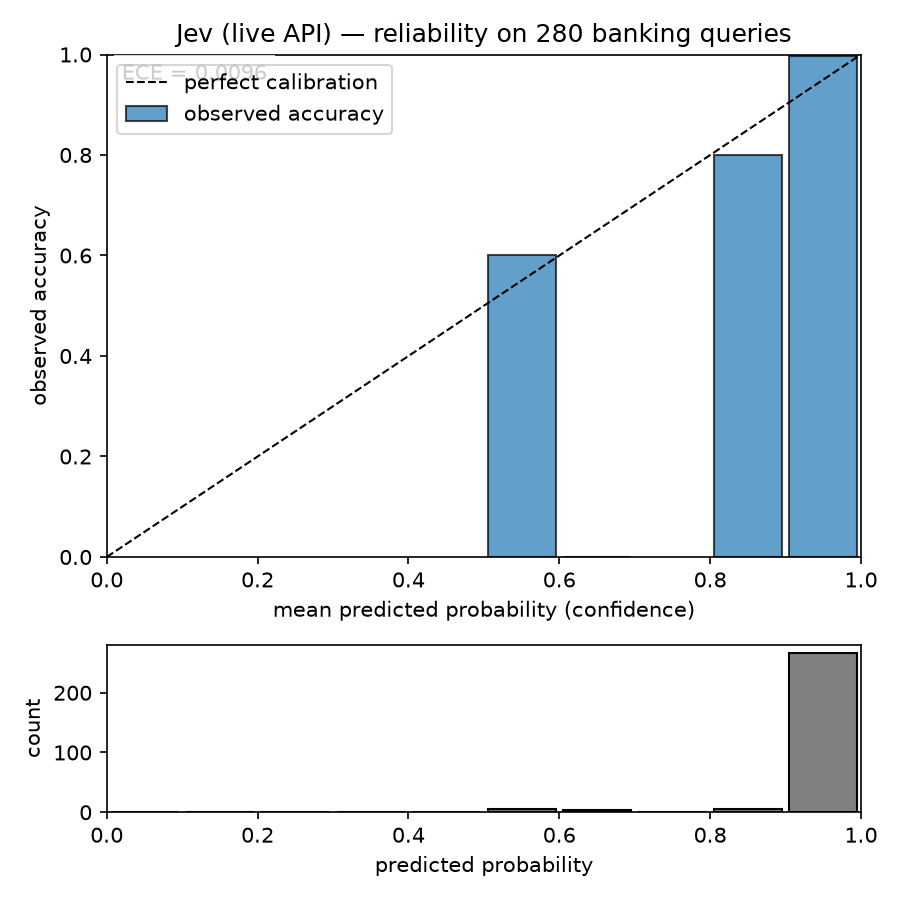
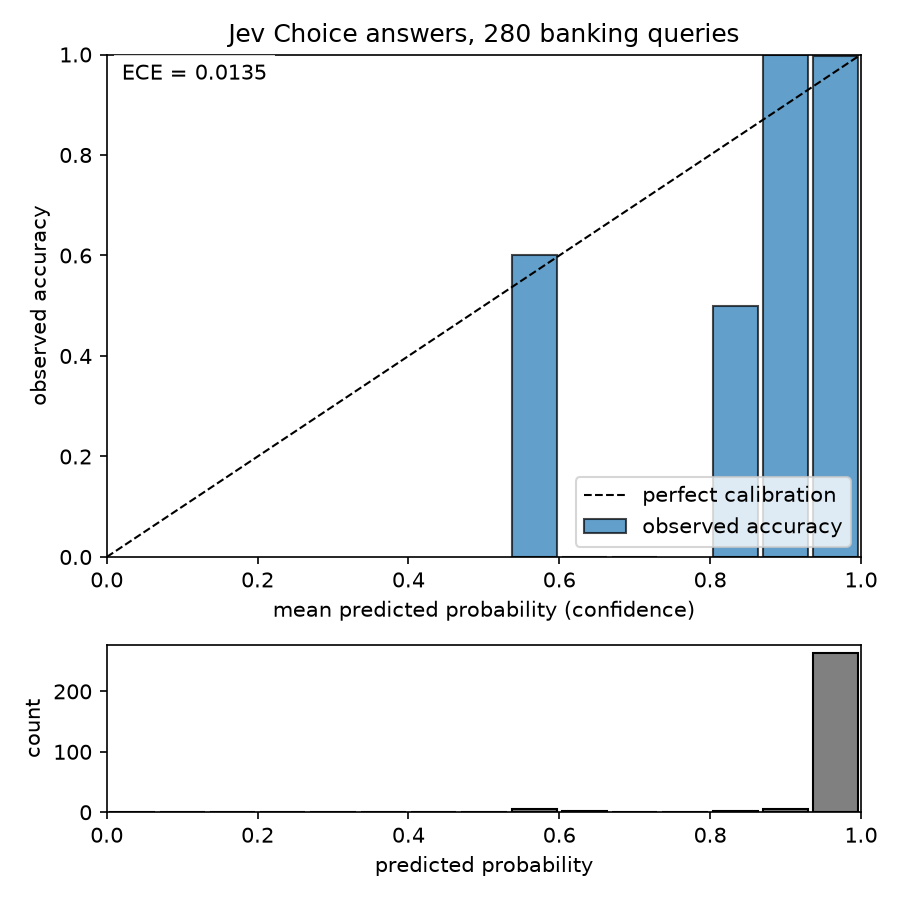
Add matched-bin ECE analysis and Jev-protocol framing test
ece_matched_bins.py recomputes Jev ECEs with the same 15 bins as the open
models, with a paired bootstrap; exp03b reruns the open framing test with
exp04's protocol. Redraws the Jev reliability figure at 15 bins.

diff --git a/code/ece_matched_bins.py b/code/ece_matched_bins.py
@@ -1,0 +1,100 @@
+"""ECE for the real Jev and the open models on the same 15-bin convention.
+
+calibration.py defaults to 15 equal-width bins, which is what exp01 used
+for the open models. The live Jev scripts (exp04-06) used 10 bins. This
+script recomputes every Jev ECE from the raw responses with 15 bins, and
+runs a paired bootstrap of (open - Jev) Choice ECE on the same 280 queries
+of the 7-intent slice.
+
+Usage: python code/ece_matched_bins.py
+Writes data/ece_matched_bins.json and figures/reliability_jev_live.png.
+"""
+
+import json
+import os
+import sys
+
+import numpy as np
+import pandas as pd
+from sklearn.feature_extraction.text import TfidfVectorizer
+
+sys.path.insert(0, os.path.dirname(os.path.abspath(__file__)))
+from calibration import TemperatureScaledLR, plot_reliability_diagram  # noqa: E402
+from calibration import expected_calibration_error as ece  # noqa: E402
+
+BASE = os.path.dirname(os.path.dirname(os.path.abspath(__file__)))
+N_BINS, N_BOOT, SEED = 15, 10_000, 7
+
+
+def load(name):
+    with open(os.path.join(BASE, "data", name)) as f:
+        return [json.loads(line) for line in f]
+
+
+def ci(v):
+    return [float(x) for x in np.percentile(v, [2.5, 97.5])]
+
+
+def main():
+    tr = pd.read_csv(os.path.join(BASE, "data", "banking77_train.csv"))
+    te = pd.read_csv(os.path.join(BASE, "data", "banking77_test.csv"))
+    keep = list(tr["category"].value_counts().nlargest(7).index)
+    te7 = te[te["category"].isin(keep)].reset_index(drop=True)
+
+    # Jev, 7-intent slice: Choice top label + all 7 Noul answers per query
+    rows = sorted((r for r in load("exp04_raw.jsonl") if r["part"] == "A"), key=lambda r: r["i"])
+    jy, jp, ny, npr = [], [], [], []
+    for r in rows:
+        ans, true = r["payload"]["answers"], te7.loc[r["i"], "category"]
+        c = ans["intent"]
+        jy.append(int(c["choice"] == true))
+        jp.append(max(c["probabilities"].values()))
+        for it in keep:
+            ny.append(int(it == true))
+            npr.append(ans[f"noul_{it}"]["noul"])
+    jy, jp, ny, npr = map(np.array, (jy, jp, ny, npr))
+
+    # Open temperature-scaled model on the same 280 queries
+    tr7 = tr[tr["category"].isin(keep)]
+    vec = TfidfVectorizer(max_features=20000, ngram_range=(1, 2))
+    m = TemperatureScaledLR().fit(vec.fit_transform(tr7["text"]), tr7["category"].to_numpy())
+    P = m.predict_proba(vec.transform(te7["text"]))
+    oy = (m.classes_[P.argmax(axis=1)] == te7["category"].to_numpy()).astype(int)
+    op = P.max(axis=1)
+
+    rng = np.random.default_rng(SEED)
+    n, k = len(jy), len(keep)
+    bj, bo, bd, bn = [], [], [], []
+    for _ in range(N_BOOT):
+        ix = rng.integers(0, n, n)
+        a, b = ece(jy[ix], jp[ix], N_BINS), ece(oy[ix], op[ix], N_BINS)
+        bj.append(a); bo.append(b); bd.append(b - a)
+        pix = (ix[:, None] * k + np.arange(k)).ravel()  # resample queries, keep their 7 pairs
+        bn.append(ece(ny[pix], npr[pix], N_BINS))
+
+    out = {"n_bins": N_BINS, "bootstrap": f"percentile, {N_BOOT} resamples, seed {SEED}",
+           "jev_choice_7": {"acc": float(jy.mean()), "ece": ece(jy, jp, N_BINS), "ci95": ci(bj),
+                            "share_above_0.99": float((jp > 0.99).mean())},
+           "open_temp_7": {"acc": float(oy.mean()), "ece": ece(oy, op, N_BINS), "ci95": ci(bo)},
+           "paired_diff_open_minus_jev": {"mean": float(np.mean(bd)), "ci95": ci(bd)},
+           "jev_noul_pooled": {"ece": ece(ny, npr, N_BINS), "ci95_cluster_by_query": ci(bn),
+                               "positives_mean_p": float(npr[ny == 1].mean()),
+                               "positives_share_ge_0.9": float((npr[ny == 1] >= 0.9).mean())}}
+    for tag, f in (("jev_77_terse", "exp05_raw.jsonl"), ("jev_77_threeshot", "exp06_raw.jsonl")):
+        y, p = [], []
+        for r in load(f):
+            c = r["payload"]["answers"]["intent"]
+            y.append(int(c["choice"] == te.loc[r["i"], "category"]))
+            p.append(max(c["probabilities"].values()))
+        out[tag] = {"acc": float(np.mean(y)), "ece": ece(np.array(y), np.array(p), N_BINS)}
+
+    plot_reliability_diagram(jy, jp, n_bins=N_BINS,
+                             title="Jev Choice answers, 280 banking queries",
+                             path=os.path.join(BASE, "figures", "reliability_jev_live.png"))
+    print(json.dumps(out, indent=1))
+    with open(os.path.join(BASE, "data", "ece_matched_bins.json"), "w") as f:
+        json.dump(out, f, indent=2)
+
+
+if __name__ == "__main__":
+    main()

diff --git a/code/exp03b_framing_jev_protocol.py b/code/exp03b_framing_jev_protocol.py
@@ -1,0 +1,73 @@
+"""Exp 03b: the framing test on open models, using exp04's Jev protocol.
+
+exp03 part 2 compared framings for one target intent over all 77 classes,
+where both framings almost never act, so its 0.03% contradiction rate is
+not comparable to the live Jev number. This rerun matches exp04 part A:
+the 280 queries of the 7-intent slice, the Choice framing read as the
+multiclass top probability, the Noul framing read as a one-vs-rest binary
+classifier's P(true) for the *predicted* intent, contradiction = the two
+disagree on act (>= 0.90). Also reports the rate at matched action rates.
+
+Usage: python code/exp03b_framing_jev_protocol.py
+Writes data/exp03b_results.json.
+"""
+
+import json
+import os
+import sys
+
+import numpy as np
+import pandas as pd
+from sklearn.feature_extraction.text import TfidfVectorizer
+from sklearn.linear_model import LogisticRegression
+
+sys.path.insert(0, os.path.dirname(os.path.abspath(__file__)))
+from calibration import TemperatureScaledLR  # noqa: E402
+
+BASE = os.path.dirname(os.path.dirname(os.path.abspath(__file__)))
+ACT_T = 0.90
+
+
+def framing(p_choice, p_noul):
+    act_c = p_choice >= ACT_T
+    act_n = p_noul >= ACT_T
+    # matched action rates: Noul threshold that acts on as many queries as Choice
+    t_match = float(np.quantile(p_noul, 1 - act_c.mean()))
+    act_nm = p_noul >= t_match
+    return {"choice_act_rate": float(act_c.mean()),
+            "noul_act_rate": float(act_n.mean()),
+            "contradiction_rate": float((act_c != act_n).mean()),
+            "contradictions": int((act_c != act_n).sum()),
+            "noul_threshold_matched": t_match,
+            "contradiction_rate_matched": float((act_c != act_nm).mean()),
+            "contradictions_matched": int((act_c != act_nm).sum())}
+
+
+def main():
+    tr = pd.read_csv(os.path.join(BASE, "data", "banking77_train.csv"))
+    te = pd.read_csv(os.path.join(BASE, "data", "banking77_test.csv"))
+    keep = tr["category"].value_counts().nlargest(7).index
+    tr7, te7 = tr[tr["category"].isin(keep)], te[te["category"].isin(keep)]
+    vec = TfidfVectorizer(max_features=20000, ngram_range=(1, 2))
+    Xtr, Xte = vec.fit_transform(tr7["text"]), vec.transform(te7["text"])
+    ytr = tr7["category"].to_numpy()
+
+    noul = {c: LogisticRegression(max_iter=1000, C=4.0).fit(Xtr, (ytr == c).astype(int))
+            for c in sorted(keep)}
+    out = {"n": int(Xte.shape[0])}
+    for name, clf in [("logreg", LogisticRegression(max_iter=1000, C=4.0)),
+                      ("logreg_temp", TemperatureScaledLR())]:
+        clf.fit(Xtr, ytr)
+        P = clf.predict_proba(Xte)
+        pred = clf.classes_[P.argmax(axis=1)]
+        p_choice = P.max(axis=1)
+        p_noul = np.array([noul[c].predict_proba(Xte[i])[0, 1] for i, c in enumerate(pred)])
+        out[name] = framing(p_choice, p_noul)
+        print(name, json.dumps(out[name]))
+
+    with open(os.path.join(BASE, "data", "exp03b_results.json"), "w") as f:
+        json.dump(out, f, indent=2)
+
+
+if __name__ == "__main__":
+    main()

diff --git a/code/calibration.py b/code/calibration.py
@@ -69,7 +69,7 @@ def plot_reliability_diagram(y_true, y_prob, n_bins=15, title="", path=None):
     ax1.set_xlabel("mean predicted probability (confidence)")
     ax1.set_ylabel("observed accuracy")
     ax1.set_title(title or "Reliability diagram")
-    ax1.legend(loc="upper left")
+    ax1.legend(loc="lower right")
     ax1.text(0.02, 0.95, f"ECE = {expected_calibration_error(y_true, y_prob, n_bins):.4f}",
              transform=ax1.transAxes, fontsize=10,
              bbox=dict(facecolor="white", alpha=0.8, edgecolor="none"))

diff --git a/README.md b/README.md
@@ -9,10 +9,12 @@ Code, data and figures for the Towards Data Science article "Jev Is API-Only. It
 | Task | Model | Accuracy | ECE |
 |---|---|---|---|
 | 7 intents | LogReg + temperature (open) | 0.975 | 0.022 |
-| 7 intents | Jev, Choice questions | 0.975 | 0.010 (95% CI 0.006 to 0.027) |
+| 7 intents | Jev, Choice questions | 0.975 | 0.014 (95% CI 0.008 to 0.031) |
 | 77 intents | LogReg + temperature (open) | 0.888 | 0.031 |
-| 77 intents | Jev, three-shot criteria | 0.859 | 0.064 |
-| 77 intents | Jev, terse criteria | 0.801 | 0.084 |
+| 77 intents | Jev, three-shot criteria | 0.859 | 0.065 |
+| 77 intents | Jev, terse criteria | 0.801 | 0.083 |
+
+All ECEs use 15 equal-width bins (`code/ece_matched_bins.py`).
 
 Other findings:
 
@@ -34,6 +36,8 @@ code/
   exp05_jev_77.py        Experiment 4: live Jev, 77 intents, terse criteria
   exp06_jev_77_fewshot.py  Experiment 4: live Jev, 77 intents, three-shot criteria
   exp01_derived.py, exp02_derived.py, bootstrap_cis.py   numbers quoted in the article
+  exp03b_framing_jev_protocol.py  framing test on open models with the Jev protocol
+  ece_matched_bins.py    Jev and open ECE on the same 15 bins + paired bootstrap
   example_lost_wallet.py the lost-wallet example from the article's opening
 data/
   banking77_{train,test}.csv   BANKING77 (CC-BY 4.0)
@@ -53,6 +57,8 @@ python code/exp02_cascade.py
 python code/exp03_schema.py
 python code/exp01_derived.py && python code/exp02_derived.py
 python code/bootstrap_cis.py    # bootstrap CIs from the saved Jev responses, offline
+python code/exp03b_framing_jev_protocol.py
+python code/ece_matched_bins.py
 python code/example_lost_wallet.py   # the opening example, a few seconds
 ```
 
